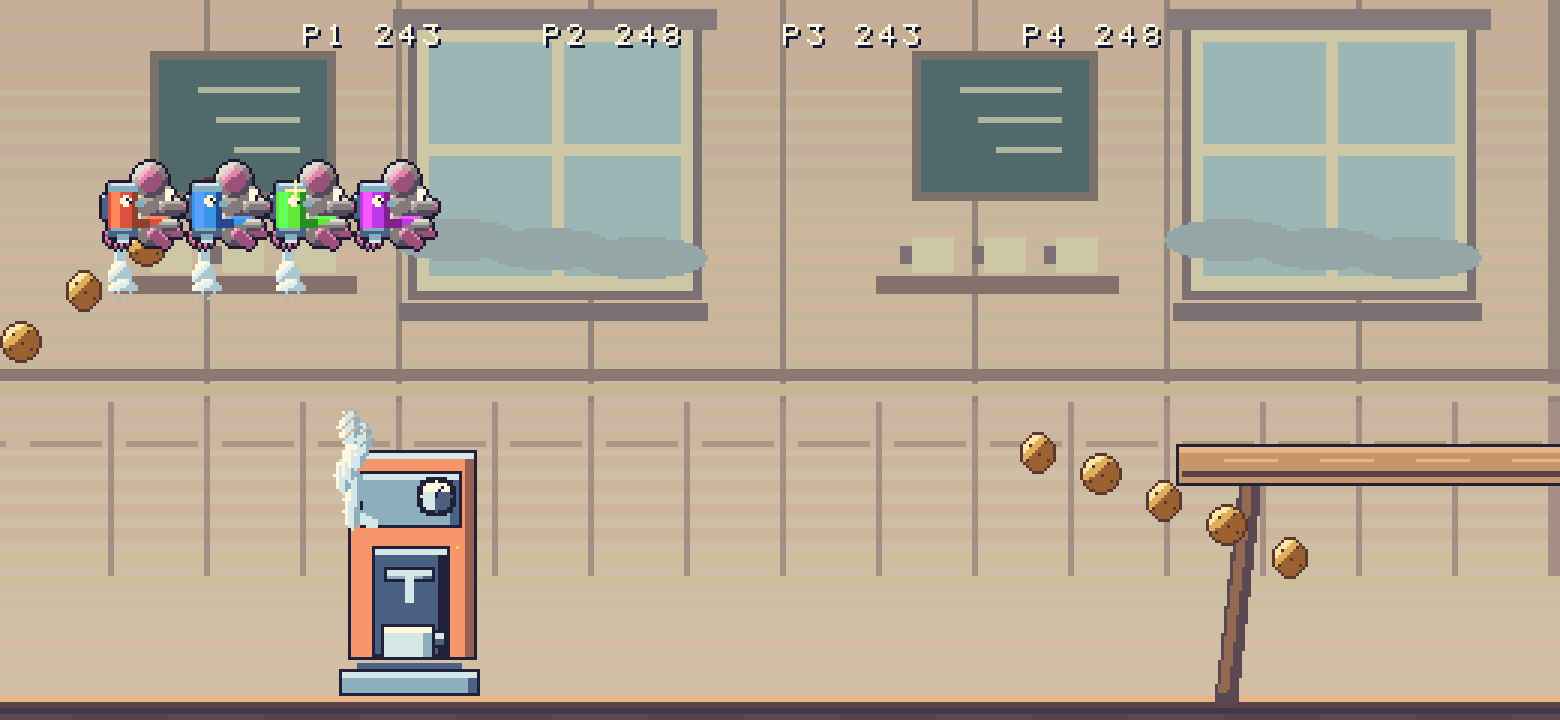
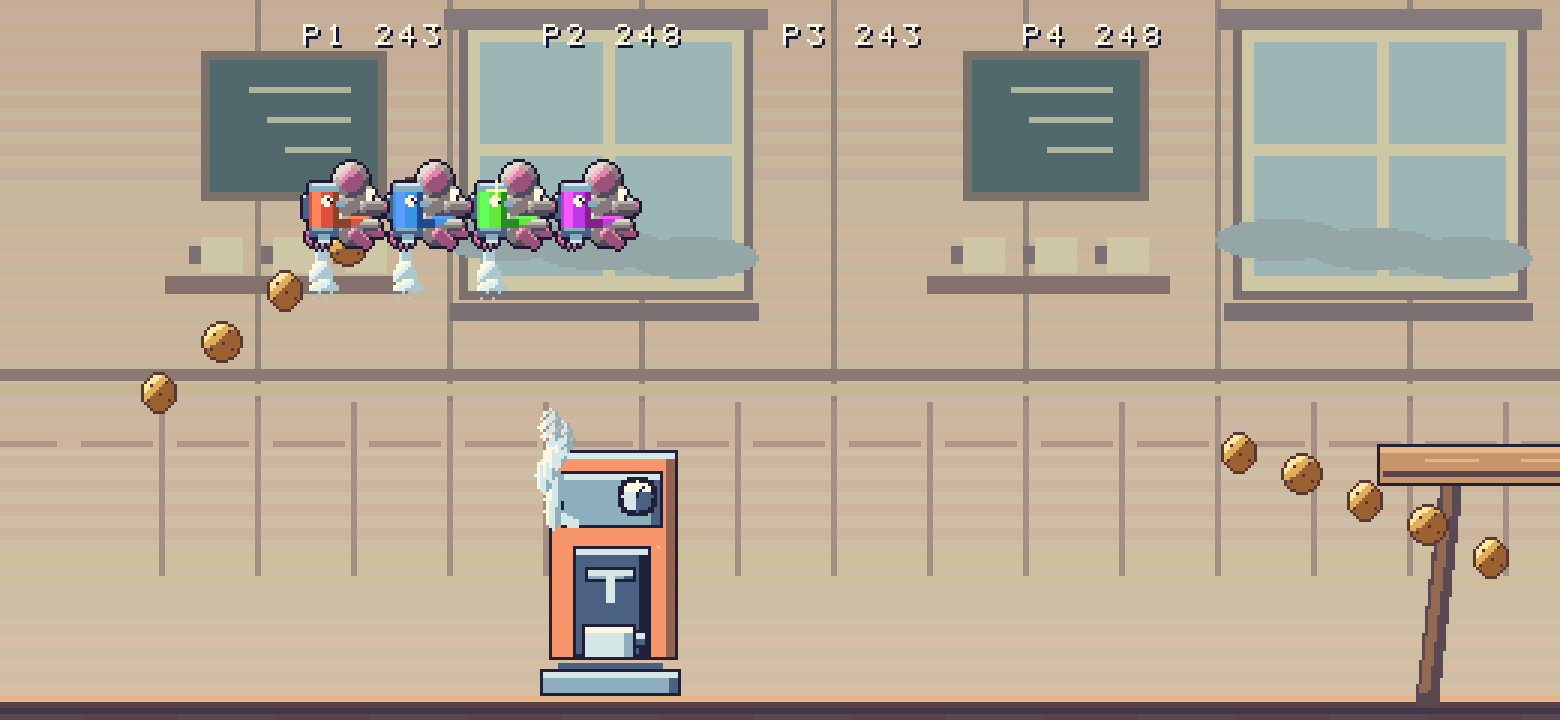
Wide view 1/3 left: mouseespresso
The owner's decision: in widescreen the mice sat too far left before a long empty
stretch. A third of the extra width (past 320 columns) is now shown behind them, two
thirds ahead: the shared camera starts WIDE_LEFT(width - 320) px further left (game.h:
36 at 427, 67 at 520, 80 at 560, 0 at 320), so the mice fly that much further right.
- The cafe behind them is drawn: the passed furniture and biscuits, the back wall and
  the counter (floor divisions for a camera left of 0), the cafe behind the starting
  line on the title and behind the game-over panel; the sounds pan from the screen x.
- The world, the course, the physics, the scoring and the start distance are unchanged:
  the logs at 320, 427 and 520 are identical to before; 320 is byte-identical (300
  dense pictures and 4 logs compared).
- tests/wide_test.sh: the view check (--opt view=1 logs it at exit) asserts the third
  on the left, the mice's screen x (that of 320 plus the third) and the next hazard's
  distance on the screen (that of 320) at 427, 520 and 560, on the title, at the start,
  in a run and with 4 mice.
- Screenshots at 427 and 520 re-rendered; DESIGN.md says so.

diff --git a/games/mouseespresso/src/draw.c b/games/mouseespresso/src/draw.c
@@ -1,8 +1,9 @@
 /* Mouse Espresso: the replaceable café theme. Flight/collision rules are in play.c.
- * Widescreen (DESIGN.md "Widescreen"): a side-scroller, so the café is revealed wider, to the right (the stage origin
- * stays 0): the mice fly at the same screen x, the shared camera shows the hazards, biscuits and counter further
- * ahead (the same course: obstacle_at, collectible_at). The maps are 128 tiles wide; the café's 512-px back wall goes
- * on with its mirror image (the same tiles h-flipped: nothing repeats on a 560-px screen). The UI is centred (the UI
+ * Widescreen (DESIGN.md "Widescreen"): a side-scroller, so the café is revealed wider: a third of the extra width behind
+ * the mice, two thirds ahead (the stage origin stays 0; the shared camera starts WIDE_LEFT(width - 320) px further
+ * left: the mice fly that much further right, the hazards, biscuits and counter are drawn behind and ahead of them
+ * (the same course: obstacle_at, collectible_at). The maps are 128 tiles wide; the café's 512-px back wall goes on
+ * with its mirror image (the same tiles h-flipped: nothing repeats on a 560-px screen). The UI is centred (the UI
  * layer scrolls by -hu_ui_x(), the game's UI sprites add it). */
 #include "game.h"
 #include "assets.h"
@@ -18,6 +19,9 @@ static int laid_w;                     /* the width the maps were laid out for (
 #define PIX_W RS_SCREEN_W_MAX
 static uint8_t pixels[PIX_W*240];
 static int wide(void) {return rs_screen_width()>RS_SCREEN_W;}
+/* widescreen: the columns the camera shows behind the mice, on the left (a third of the extra width, game.h) */
+int draw_wide_left(void) {return WIDE_LEFT(rs_screen_width()-RS_SCREEN_W);}
+static int p1_drawn_x;                 /* tests (draw_view_log): the screen x of P1's sprite centre, as drawn */
 static const rs_color title_ramps[2][3]={
  {RS_HEX(0xffd8ba),RS_HEX(0xea9868),RS_HEX(0xa65951)},
  {RS_HEX(0xe1eddd),RS_HEX(0x9bc1bd),RS_HEX(0x567f91)}};
@@ -58,7 +62,7 @@ static void spr(int id,int x,int y,int priority,int pal,const rs_viewport *vp) {
  rs_spr(x,y,s->tile,s->w,s->h,pal<0?s->pal:pal,priority,0);
 }
 static void background(const view *v,rs_viewport *vp) {
- int offset=v->cx/4,fx=floor8(offset),dx=offset-fx*8;
+ int offset=v->cx>=0?v->cx/4:-((3-v->cx)/4),fx=floor8(offset),dx=offset-fx*8;
  int cols=(vp->w+dx+7)/8,rows=(vp->h+7)/8;
  for(int r=0;r<rows;r++)for(int c=0;c<cols;c++) {
   int world_y=v->zy==256?r*8:(r*8-12)*2;
@@ -198,7 +202,7 @@ static void furniture(uint8_t *p,const obstacle *o,const view *v,const rs_viewpo
 static void foreground(const world *w,const view *v,const rs_viewport *vp,int *next){
  memset(pixels,0,sizeof pixels);int r1=vp->w-1;      /* the counter: the whole width (widescreen) */
  rect(pixels,0,232,r1,239,6,vp);rect(pixels,0,232,r1,233,9,vp);rect(pixels,0,236,r1,237,15,vp);
- for(int x=0;x<vp->w;x++)if(((x+v->cx)/32)&1)rect(pixels,x,238,x,239,14,vp);
+ for(int x=0;x<vp->w;x++)if(((x+v->cx)>>5)&1)rect(pixels,x,238,x,239,14,vp);
  int base=(v->cx-HAZARD_FIRST)/HAZARD_SPACING;if(base<0)base=0;
  for(int id=base>0?base-1:0;id<=base+3;id++){
   obstacle o;obstacle_at(w,id,w->t,&o);int x=sx(v,o.x);
@@ -218,7 +222,8 @@ static void scene(const world *w,int t,const view *v,const rs_viewport *vp){
   if(h->state==HS_OFF)continue;
   int frame=h->state==HS_HIT || h->state==HS_DOWN?SPR_HERO_HIT:h->land_t<5?SPR_HERO_SQUASH:
    h->grounded?SPR_HERO_IDLE+(t/5)%2:h->held?SPR_HERO_STRETCH:SPR_HERO_AIR;
-  spr(frame,x-16,y-16,2,ppal(p),vp);
+  int n=rs_oam_next();spr(frame,x-16,y-16,2,ppal(p),vp);
+  if(p==0)p1_drawn_x=rs_oam_next()>n?rs_oam(n)->x+16+rs_screen_origin_x():-999;
   if(h->held && h->state==HS_RUN && !h->grounded)spr(SPR_STEAM+(t/4)%3,x-15,y+10,2,-1,vp);
   if(h->smooth_t>0)hu_sparkle(x+18-hu_ui_x(),y-10,w->t,2);   /* kit sprites: UI coordinates */
   if(h->state==HS_HIT && h->t<20)spr(SPR_PUFF+(h->t/7)%3,x-8,y+4,2,-1,vp);
@@ -260,8 +265,8 @@ static void title_ui(int t,int best){
 }
 void draw_frame(const world *w,int state,int st_t,int best,int new_best,int paused){
  nviews=rs_viewport_layout(1,0,VP);hu_clear();rs_oam_clear();rs_brightness(paused?9:15);
- view *v=&V[0];rs_viewport *vp=&VP[0];v->mx=v->my=0;v->zx=v->zy=256;v->cx=w->scroll;
- if(state==ST_OVER)v->cx=0;
+ view *v=&V[0];rs_viewport *vp=&VP[0];v->mx=v->my=0;v->zx=v->zy=256;v->cx=w->scroll-draw_wide_left();
+ if(state==ST_OVER)v->cx=-draw_wide_left();   /* behind the panel: the start of the course */
  for(int y=0;y<240;y++){int k=y*256/240,d=(y&4)?4:0;v->sky[y]=RS_RGB8(192+14*k/256+d,172+16*k/256+d/2,150+12*k/256+d);}
  background(v,vp);int next=1;foreground(w,v,vp,&next);
  vp->sx[0]=vp->sx[1]=vp->sy[0]=vp->sy[1]=0;vp->layers=7;vp->objs=1;
@@ -286,6 +291,14 @@ void draw_frame(const world *w,int state,int st_t,int best,int new_best,int paus
  }else rs_bg_scroll(RS_BG1,-hu_ui_x()&(rs_bg_map_w(RS_BG1)*8-1),0);
  rs_bg_scroll(RS_BG2,0,0);rs_bg_scroll(RS_BG3,vp->sx[2],vp->sy[2]);rs_viewports(0,NULL,0);
  shown_state=state;shown_best=best;
+}
+/* Tests (--opt view=1, main.c at exit): the view of the last frame, "view: width=W left=L p1_x=X next_x=N": L the columns
+ * shown behind the mice (a third of the extra width), X the screen x of P1's sprite centre as drawn, N the screen x of
+ * the next hazard ahead of P1 (tests/wide_test.sh: X and N - X against 320) */
+void draw_view_log(const world *w) {
+ const view *v=&V[0];int hx=(int)(w->h[0].wx>>16),id=0;obstacle o;
+ do obstacle_at(w,id++,w->t,&o); while(o.x<=hx && id<1000);
+ rs_log("view: width=%d left=%d p1_x=%d next_x=%d",rs_screen_width(),draw_wide_left(),p1_drawn_x,sx(v,o.x));
 }
 #define S(v) rs_state_var("draw." #v,&(v),sizeof(v))
 void draw_state(void) {S(V);S(VP);S(nviews);S(shown_state);S(shown_best);S(laid_w);RS_STATE_RASTER(raster);}

diff --git a/games/mouseespresso/src/main.c b/games/mouseespresso/src/main.c
@@ -12,6 +12,7 @@
  *   seed=N         a fixed course (default: from the frame of the first press)
  *   players=N      start with N players joined (1..4);  ready=1  skip the title (the run waits for a press)
  *   dump=1         log the final state at exit (tests); music=0, sound=0
+ *   view=1         log the view at exit (tests/wide_test.sh: widescreen, a third of the extra width behind)
  */
 #include "game.h"
 #include "assets.h"
@@ -148,11 +149,11 @@ static void play_update(void)
     for (int p = 0; p < W.players; p++) {
         int ev = W.events[p];
         const hero *h = &W.h[p];
-        if (ev & EV_JUMP) sfx_at(SFX_JUMP, h->x);
-        if (ev & (EV_SCORE | EV_APPLE)) sfx_at(SFX_SCORE, h->x);
-        if (ev & EV_LAND) sfx_at(SFX_LAND, h->x);
+        if (ev & EV_JUMP) sfx_at(SFX_JUMP, h->x + draw_wide_left());
+        if (ev & (EV_SCORE | EV_APPLE)) sfx_at(SFX_SCORE, h->x + draw_wide_left());
+        if (ev & EV_LAND) sfx_at(SFX_LAND, h->x + draw_wide_left());
         if (ev & EV_HIT) {
-            sfx_at(SFX_HIT, h->x);
+            sfx_at(SFX_HIT, h->x + draw_wide_left());
             hu_shake(3, 12);                    /* house rule: shake on a hit only, <= 4 px, <= 16 frames */
             rs_log("player %d hit at frame %u (score %d)", p + 1, rs_frame_count(), h->score);
         }
@@ -249,6 +250,7 @@ static void game_init(void)
 
 static void game_shutdown(void)
 {
+    if (rs_option_int("view", 0)) draw_view_log(&W);      /* tests/wide_test.sh: the view (widescreen) */
     if (!rs_option_int("dump", 0)) return;
     char sc[48] = "", hs[48] = "";
     for (int p = 0; p < W.players; p++) {

diff --git a/games/mouseespresso/src/game.h b/games/mouseespresso/src/game.h
@@ -17,6 +17,12 @@
 #define PAW_WARNING_FRAMES 72
 #define PAW_ATTACK_FRAMES 48
 #define MEDAL_SCORES {100,250,500,1000}
+/* Widescreen (DESIGN.md "Widescreen"): the share of the extra width (the columns past 320) shown BEHIND the mice, on
+ * the left: one third (the owner's decision), the other two thirds ahead. WIDE_LEFT(extra) rounds it: 36 px at 427,
+ * 67 at 520, 80 at 560, 0 at 320. */
+#define WIDE_LEFT_NUM 1
+#define WIDE_LEFT_DEN 3
+#define WIDE_LEFT(extra) (((extra)*WIDE_LEFT_NUM*2+WIDE_LEFT_DEN)/(2*WIDE_LEFT_DEN))
 enum hero_state { HS_READY,HS_RUN,HS_HIT,HS_DOWN,HS_OFF };
 enum { EV_JUMP=1,EV_SCORE=2,EV_HIT=4,EV_LAND=8,EV_START=16,EV_APPLE=32 };
 enum { ST_TITLE,ST_PLAY,ST_DEAD,ST_OVER };
@@ -49,6 +55,8 @@ void draw_init(void);
 void draw_frame(const world *w,int state,int st_t,int best,int new_best,int paused);
 void draw_state(void);
 void draw_relayout(void);   /* after a state of another width was loaded: this width's maps (widescreen) */
+void draw_view_log(const world *w);   /* tests (--opt view=1): the view at exit, "view: width= left= p1_x= next_x=" */
+int draw_wide_left(void);   /* widescreen: the columns shown behind the mice (WIDE_LEFT of the extra width) */
 enum { SFX_JUMP,SFX_SCORE,SFX_HIT,SFX_LAND,SFX_COUNT };
 #define SFX_HOUSE SFX_COUNT
 #endif

diff --git a/games/mouseespresso/DESIGN.md b/games/mouseespresso/DESIGN.md
@@ -86,14 +86,19 @@ Code MIT; art, music, sound and design CC BY-NC-SA 4.0, as stated in LICENSE.
 ## Widescreen (docs/spec.md "Widescreen")
 
 The game opts in (`max_width` = 560, `WIDESCREEN_mouseespresso = 1`): 320 x 240 is unchanged pixel for pixel; at
-427 (16:9), 520 or 560 (phones) **the cafe is revealed wider, to the right**: a side-scroller, so the stage origin
-stays 0. The mice fly at the same screen x and the shared camera shows the hazards, the biscuit trails and the
-counter further ahead; seeing further makes it a little easier, which the owner accepts (no compensation).
+427 (16:9), 520 or 560 (phones) **the cafe is revealed wider: a third of the extra width behind the mice, two thirds
+ahead** (the owner's decision: with all of it ahead the mice sat too far left before a long empty stretch). The shared
+camera starts `WIDE_LEFT(width - 320)` px further left (game.h: 36 at 427, 67 at 520, 80 at 560, 0 at 320), so the
+mice fly that much further right on the screen and see the rest further ahead; seeing further makes it a little easier,
+which the owner accepts (no compensation). The cafe behind the mice is drawn like the rest: the furniture already
+passed, the back wall and the counter, and before the start (the title too) the cafe behind the starting line.
 - **The same course**: the furniture, toasters, paws, appliances and biscuits are drawn as far as the screen goes
   (obstacle_at, collectible_at: the course never looked at the screen); the counter runs the whole width.
   tests/wide_test.sh compares the whole logs (scores, game overs, the final state and its hash) of 1-player and
   4-player bot runs at 320, 427, 520 and 560. The start of a run is the same too: the first hazards sit at the same
-  distance from the mice as at 320 (a wider screen shows them from the first frame), no longer run-up.
+  distance from the mice as at 320 (a wider screen shows them from the first frame), no longer run-up. Its view check
+  (`--opt view=1` logs the view at exit) asserts the third on the left, the mice's screen x (that of 320 plus the
+  third) and the distance to the next hazard on the screen (that of 320), on the title, at the start and in runs.
 - **The back wall** (BG3) goes on with its mirror image (the same tiles h-flipped on a 128-tile map: no VRAM, seamless
   joins), so a 560-px screen never shows a stretch twice; the furniture layer (BG2) is drawn over the whole width (a
   pixel buffer as wide as the widest screen).
